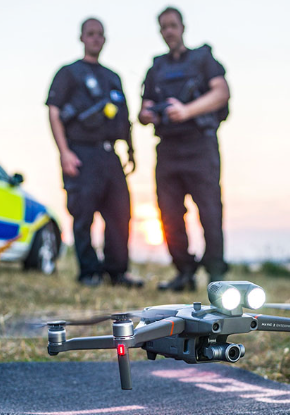
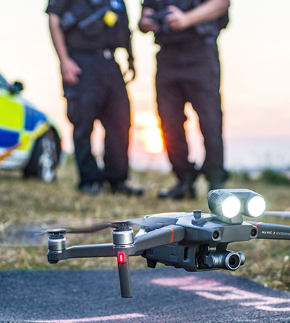
fotos index

diff --git a/index.html b/index.html
@@ -27,9 +27,9 @@
         <div id="servicio-drones" class="service">
             <h2>Servicio de fotografia y video aereo</h2>
             <p>Ofrecemos servicio de filmacion aerea dentro y fuera de la ciudad para pautas publicitarias, paginas web y venta de vivienda </p>
-            <img src="./image/DJI_0013.JPG" alt="imagen mar" title="imagen de Mar" style="width: 500px;;">
-            <img src="./image/DJI_0017.JPG" alt="imagen mar" title="imagen de Mar" style="width: 500px;;">
-    <video controls center width= "480" height= "450" autoplay="1">
+            <img src="./image/DJI_0013.JPG" alt="imagen mar" title="imagen de Mar" style="width: 300px;;">
+            <img src="./image/DJI_0017.JPG" alt="imagen mar" title="imagen de Mar" style="width: 305px;;">
+    <video controls center width= "280" height= "280" autoplay="1">
         <source src="./video/DJI_0960.mp4   " type="video/MP4">
     </video>
    </div>
@@ -38,7 +38,7 @@
    <img src="./image/vigilancia_drone.png" alt="drone de vigilancia">
    <h2> Servicio de fotogrametria con drone</h2>
    <p>El servicio de fotogrametria esta enfocado al area de ingenieria y ambiental, con esto podemos realizar medicion de terrenos de finca, lotes, potreros entre otros, esta tecnica se puede complementar con topografia tradicional (estacion total, puntos de control)</p>
-   <img src="./image/fotogrametria.png" alt="fotogrametria con drone deploy">
+   <img src="./image/fotogrametria.png" alt="fotogrametria con drone deploy" style="width: 300px;>
 <h2> Servicio de aspersion con drone</h2>
 <p>El servicio de aspercion o fumigacion es altamente usado para agricultura, el usar drones para este fin mejora la eficiencia y evita el desperdicio de quimicos, ya que al ser aplicado desde la parte superior del cultivo es aprovechado en mayor cantidad, esto en comparacion al metodo tradicional de aspersion manual o con maquinaria pesada. es importante tener claro que la inversion inicial es bastante costosa, pero esto se recupera en el largo plazo</p>
 <img src="./image/fumigacion_drone.png" alt="drone de fumigacion">
